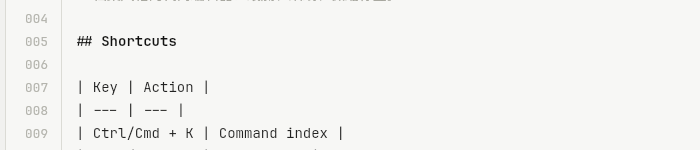
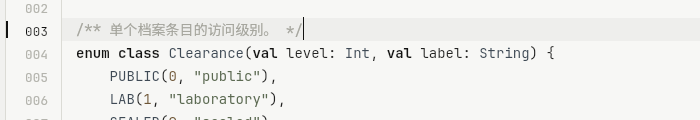
fix(ui): 行阴影里的代码真正垂直居中（自己算半 leading，不再依赖 LineHeightStyle）
上一版加了 LineHeightStyle.Alignment.Center，但实测在 Compose 里不生效：
行高大于字体自身行高时，字形是贴行框顶部排的（实测基线 = 行框顶 + ascent），
多余 leading 全留在下方，所以行阴影里的代码仍然偏上。

改为在 CodeEditor 里量出字体自身行高（同一 measurer、lineHeight 置 Unspecified），
把代码与行号栏整体下移 (行框高 - 字体行高)/2：
字形框中心 = 行框中心，行阴影上下留白一致，行号与代码保持同一节奏。
去掉不生效的 LineHeightStyle，避免各端行为不一致。

顺带：publish-web.sh 重启后轮询等待就绪，避免紧接着访问撞 502。
更新行高亮细节截图。

diff --git a/composeApp/src/commonMain/kotlin/com/lumicode/editor/ui/CodeEditor.kt b/composeApp/src/commonMain/kotlin/com/lumicode/editor/ui/CodeEditor.kt
@@ -40,6 +40,7 @@ import androidx.compose.ui.input.key.onPreviewKeyEvent
 import androidx.compose.ui.input.key.type
 import androidx.compose.ui.platform.LocalDensity
 import androidx.compose.ui.text.TextRange
+import androidx.compose.ui.unit.TextUnit
 import androidx.compose.ui.text.input.OffsetMapping
 import androidx.compose.ui.text.input.TextFieldValue
 import androidx.compose.ui.text.input.TransformedText
@@ -88,6 +89,21 @@ fun CodeEditor(
     val charWidth = remember(measurer, RlSettings.codeFontSize) {
         val measured = measurer.measure("0000000000", RlType.code)
         (measured.size.width / 10f).toInt().coerceAtLeast(1)
+    }
+
+    /**
+     * 行阴影对齐用的几何量。
+     *
+     * Compose 在 lineHeight 大于字体自身行高时，是把字形**贴行框顶部**排的
+     * （实测基线 = 行框顶 + ascent），多余的 leading 全部留在下方，于是「行阴影里的代码」
+     * 看起来偏上。这里量出字体自身行高，把文字整体下移半个 leading，
+     * 字形框就正好落在行框中央；行号栏同步下移，保持与代码同一节奏。
+     */
+    val leadingInset = remember(measurer, RlSettings.codeFontSize) {
+        val tight = measurer.measure("Mg", RlType.code.copy(lineHeight = TextUnit.Unspecified))
+        val fontHeightPx = (tight.getLineBottom(0) - tight.getLineTop(0)).toFloat()
+        val boxHeightPx = with(density) { RlSettings.codeLineHeight.toPx() }
+        with(density) { ((boxHeightPx - fontHeightPx) / 2f).coerceAtLeast(0f).toDp() }
     }
 
     var value by remember(path) { mutableStateOf(TextFieldValue(text, TextRange(0))) }
@@ -174,7 +190,7 @@ fun CodeEditor(
                         Column(
                             Modifier
                                 .fillMaxSize()
-                                .padding(top = RlDimens.codePaddingTop),
+                                .padding(top = RlDimens.codePaddingTop + leadingInset),
                             horizontalAlignment = Alignment.End,
                         ) {
                             for (line in 1..lineCount) {
@@ -265,7 +281,7 @@ fun CodeEditor(
                         },
                         modifier = Modifier
                             .fillMaxSize()
-                            .padding(start = RlDimens.codePaddingStart, top = RlDimens.codePaddingTop)
+                            .padding(start = RlDimens.codePaddingStart, top = RlDimens.codePaddingTop + leadingInset)
                             .onPreviewKeyEvent { event ->
                                 if (event.type != KeyEventType.KeyDown) return@onPreviewKeyEvent false
                                 val ctrl = event.isCtrlPressed || event.isMetaPressed

diff --git a/composeApp/src/commonMain/kotlin/com/lumicode/editor/ui/theme/RhineTheme.kt b/composeApp/src/commonMain/kotlin/com/lumicode/editor/ui/theme/RhineTheme.kt
@@ -6,7 +6,6 @@ import androidx.compose.runtime.setValue
 import androidx.compose.ui.graphics.Color
 import androidx.compose.ui.text.TextStyle
 import androidx.compose.ui.text.font.FontFamily
-import androidx.compose.ui.text.style.LineHeightStyle
 import androidx.compose.ui.text.font.FontWeight
 import androidx.compose.ui.unit.Dp
 import androidx.compose.ui.unit.TextUnit
@@ -159,10 +158,6 @@ object RlType {
         fontWeight = FontWeight.Normal,
         fontSize = RlSettings.codeFontSize.sp,
         lineHeight = RlSettings.lineHeightSp().sp,
-        lineHeightStyle = LineHeightStyle(
-            alignment = LineHeightStyle.Alignment.Center,
-            trim = LineHeightStyle.Trim.None,
-        ),
         letterSpacing = 0.0.em,
         color = RlColors.CodeDefault,
     )
@@ -172,10 +167,6 @@ object RlType {
         fontWeight = FontWeight.Normal,
         fontSize = (RlSettings.codeFontSize - 1.5f).sp,
         lineHeight = RlSettings.lineHeightSp().sp,
-        lineHeightStyle = LineHeightStyle(
-            alignment = LineHeightStyle.Alignment.Center,
-            trim = LineHeightStyle.Trim.None,
-        ),
         letterSpacing = 0.02.em,
         color = RlColors.Faint,
     )
